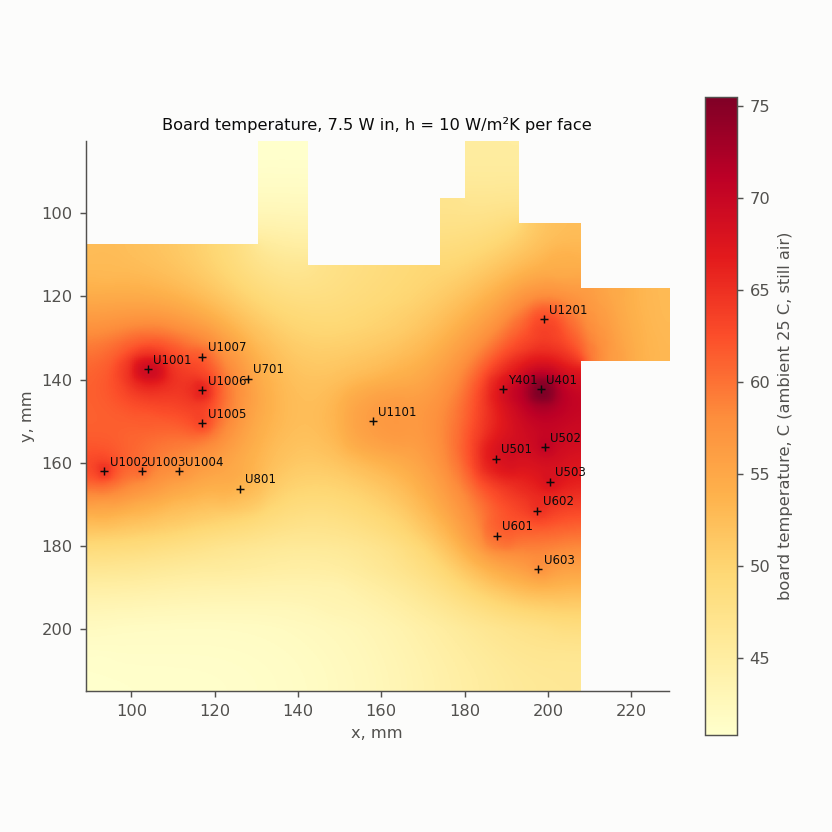
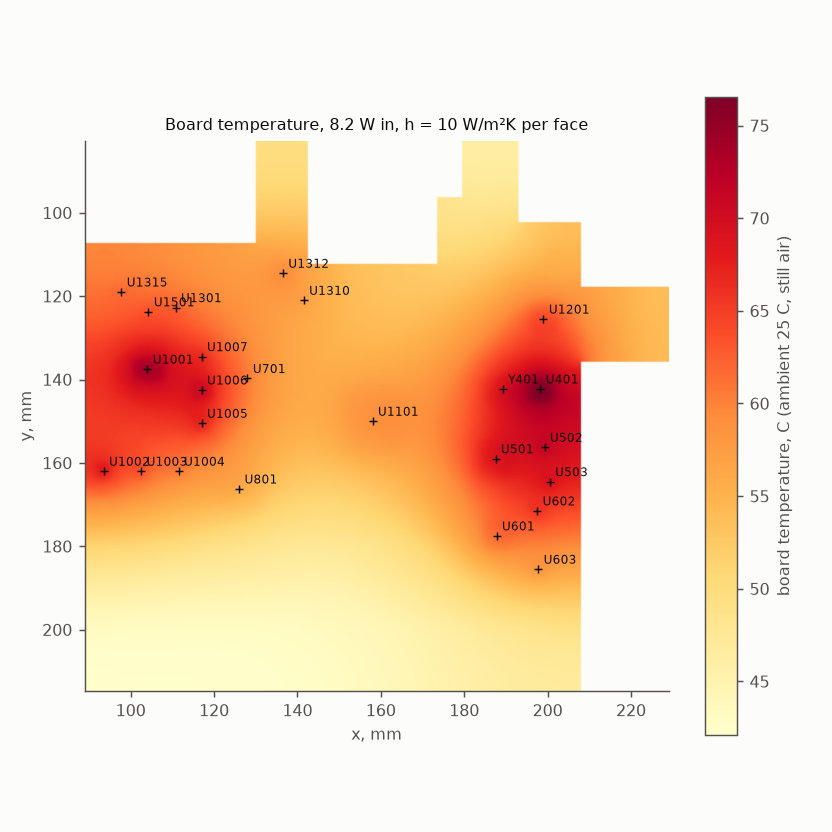
Rev08 phase 9: 2-D board thermal map and the five cooling cases re-run with the Rev08 loads (8.2 W)
The LMR33630 is now the hottest junction in still air (87 C at 25 C ambient), 2 C above the ADCLK948; the
front end (RFFC5072 64 C) sits in the free block away from the clock and power corners. Sink plus fan keeps every
junction under 92 C at 70 C ambient. SIGNAL_INTEGRITY 9.6 and the README caption updated.

diff --git a/docs/SIGNAL_INTEGRITY.md b/docs/SIGNAL_INTEGRITY.md
@@ -751,79 +751,94 @@ no plane to reach. The impedance is inside the target with margin (+1V0: 41 / 63
 
 ### 9.6 Thermal, RF budget, and what is still not simulated
 
-**Thermal (12 Nov; re-run 13 Nov with the Ethernet PHY).**
+**Thermal (12 Nov; re-run 13 Nov with the Ethernet PHY, and 17 Nov for Rev08).**
 - **The model.** `thermal2d.py` treats the board as a 2-D sheet. In-plane conduction runs through
-  each layer's real copper coverage: L2, L5 and L7 85 %, L4 82 %, the outer layers 16–24 %, the
-  signal layers 5–7 %. Both faces cool by natural convection.
-- **The heat.** 7.5 W, from the power budget (POWER_AND_STACKUP §1.3–1.4), spread over each part's
-  pads. 6.9 W until 13 Nov; the Ethernet PHY adds 0.5 W (0.15 A at 3.3 V, always powered) and its
-  load 0.1 W more in the bucks. Its θJB is taken as 12 °C/W, typical of a 6 × 6 mm QFN, not read.
+  each layer's real copper coverage on the Rev08 board: L2, L5 and L7 75 %, L4 70 %, the outer
+  layers 15–23 %, the signal layers 5–7 %. Both faces cool by natural convection.
+- **The heat.** 8.2 W, from the power budget (POWER_AND_STACKUP §1.3–1.4), spread over each part's
+  pads. It was 7.5 W before Rev08 (6.9 W until 13 Nov, when the Ethernet PHY added 0.5 W and its
+  load 0.1 W more in the bucks). Rev08 adds 0.7 W:
+  - the RFFC5072, 0.38 W (125 mA at 3.0 V);
+  - the two SPF5043Z, 0.08 W each;
+  - the LP5907's drop, 0.05 W;
+  - the LEDs and I/O expanders, 0.05 W;
+  - the extra load in the LMR33630, the `+3V3_D` buck and the `+1V8_A` LDO, 0.07 W.
+
+  The PHY's θJB is taken as 12 °C/W, typical of a 6 × 6 mm QFN, not read. The RFFC5072's θJB is also
+  taken as 12 °C/W, the figure the enclosure CFD uses, not read.
 - **The junctions.** Each is the board temperature under the part plus P × θJB, or θJC for the
   exposed-pad parts, from the data sheets read.
 
 | At 25 °C ambient, still air | h = 10 W/m²K per face (convection only) | h = 15 (with radiation) |
 |---|---|---|
-| Board, mean / hottest rise | +27 / +51 °C | +18 / +40 °C |
-| ADCLK948, junction (0.95 W, θJC 8.8 °C/W, Rev. B Table 6) | **84 °C** (board 76) | 73 °C |
-| LMR33630, junction (θJB 13.6) | 82 °C | 72 °C |
-| Si549, junction (θJB 17) | 77 °C | 66 °C |
-| TPS7A8300 for +1V8_D, junction (θJB 12.3) | 72 °C | 62 °C |
-| RTL8211FSI, the Ethernet PHY (0.5 W, θJB 12 assumed) | 70 °C | 59 °C |
-| AD9484, junction (θJC 1.7) | 70 °C | 59 °C |
+| Board, mean / hottest rise | +30 / +52 °C | +20 / +40 °C |
+| LMR33630, junction (0.96 W, θJB 13.6) | **87 °C** (board 74) | 76 °C |
+| ADCLK948, junction (0.95 W, θJC 8.8 °C/W, Rev. B Table 6) | **85 °C** (board 77) | 74 °C |
+| Si549, junction (θJB 17) | 78 °C | 67 °C |
+| TPS7A8300 for +1V8_D, junction (θJB 12.3) | 77 °C | 66 °C |
+| RTL8211FSI, the Ethernet PHY (0.5 W, θJB 12 assumed) | 71 °C | 60 °C |
+| AD9484, junction (θJC 1.7) | 71 °C | 60 °C |
 | AD9253, junction (0.46 W at most, θJC 7.1, Rev. E Table 7) | 66 °C | 56 °C |
-| XC7A50T, junction (0.73 W, θJB 8.4, UG475 Table 5-1 FTG256) | 63 °C | 53 °C |
-| AD9767, junction (LQFP, only θJA 91 is given) | under 84 °C (board 55 + P × θJA, a bound) | under 75 °C |
+| XC7A50T, junction (0.73 W, θJB 8.4, UG475 Table 5-1 FTG256) | 65 °C | 55 °C |
+| RFFC5072, junction (Rev08, 0.38 W, θJB 12 assumed) | 64 °C | 53 °C |
+| AD9767, junction (LQFP, only θJA 91 is given) | under 86 °C (board 58 + P × θJA, a bound) | under 76 °C |
 
 **On the bench this is comfortable. In a vehicle it is not.**
-- **The cause.** The board is small (134 cm²) for 7.5 W. The clock buffer, the radar ADC, the
-  four drivers and the 5 V buck share it.
+- **The cause.** The board is small (138 cm²) for 8.2 W. The 12 V buck, the clock buffer, the
+  radar ADC and the four drivers share it. Since Rev08 the buck is the hottest junction, by 2 °C.
 - **The arithmetic.** At 60–70 °C ambient, add 35–45 °C to every figure above. Around the clock
-  buffer and the ADCs the board then passes 110 °C.
+  buffer, the ADCs and the 12 V buck the board then passes 110 °C.
 - **What it exceeds.**
   - The parts' 85 °C ambient rating: the board under the ADCs and the clock buffer is the
     ambient they see.
-  - The FPGA's 100 °C junction limit (I grade): 63 °C on the bench becomes 98–108 °C.
-  - The ADCLK948 reaches 119–129 °C at the junction. That is under its 150 °C maximum, but
-    outside its rated range.
+  - The FPGA's 100 °C junction limit (I grade): 65 °C on the bench becomes 100–110 °C.
+  - The ADCLK948 reaches 120–130 °C at the junction, and the LMR33630 122–132 °C. That is under
+    their 150 °C maximum, but outside the ADCLK948's rated range.
 - **What a vehicle install needs.** The KV260's fan blowing across this board, or a thermal path
   to the enclosure, as VEHICLE_PLATFORM plans. At 1 m/s the data sheets' θJA fall by 10–15 %, and
   the board's h roughly doubles, which halves every rise.
+- **The front end is not a hot spot.** The RFFC5072 sits in the free block at 59 °C of board in
+  still air, 18 °C below the clock buffer's corner. Its 85 °C ambient rating is reached at 51 °C
+  ambient in still air; with the fan, at 70 °C the board under it is 85 °C.
 - **Not modelled.** Heat flowing into the KV260 through the connector and the standoffs, and any
   airflow.
 
 ![Board temperature](sim/board_thermal.png)
 
-**With cooling (12 Nov).** `thermal2d.py --sink` adds one heatsink, a node of Rsa °C/W to ambient,
-pressed onto each listed part's top through θJC(top) and a gap pad (3 W/m·K, 0.5 mm). Each of
-those parts' heat then splits between the board (through θJB) and the sink, and its junction is
-solved, not estimated.
+**With cooling (12 Nov, re-run 17 Nov for Rev08).** `thermal2d.py --sink` adds one heatsink, a node
+of Rsa °C/W to ambient, pressed onto each listed part's top through θJC(top) and a gap pad (3 W/m·K,
+0.5 mm). Each of those parts' heat then splits between the board (through θJB) and the sink, and its
+junction is solved, not estimated.
 - **Fan only.** h = 25 W/m²K per face, roughly 1–2 m/s across the board.
 - **Passive sink.** One finned plate about the board's size, Rsa = 3 °C/W in still air.
 - **Active sink.** The same plate with a 40 mm fan: Rsa = 0.8 °C/W, and h = 25 on the board.
 - **Contacts.** The FPGA 4.8 °C/W (UG475 θJC 4.24 plus the pad). The ADCLK948 27, and the AD9484
-  and AD9253 18 each (an assumed QFN top θJC of 15–20 plus the pad). The regulators 30–40.
+  and AD9253 18 each (an assumed QFN top θJC of 15–20 plus the pad). The regulators 35–40.
 
 | Hottest junction, at 25 °C ambient (and at 70 °C) | Still air | Fan only | Passive sink, 4 ICs | Passive sink, ICs + regulators | Sink + fan, ICs + regulators |
 |---|---|---|---|---|---|
-| Board, max / mean | 76 / 52 °C | 55 / 36 | 65 / 43 | 51 / 39 | 41 / 31 |
-| Hottest part | ADCLK948 84 (129) | ADCLK948 63 (108) | LMR33630 78 (123) | Si549 56 (101) | Si549 46 (91) |
-| ADCLK948 | 84 (129) | 63 (108) | 52 (97) | 53 (98) | 44 (89) |
-| XC7A50T | 63 (108) | 46 (91) | 37 (82) | 39 (84) | 31 (76) |
-| AD9484 / AD9253 | 70 / 66 | 50 / 47 | 44 / 41 | 46 / 43 | 36 / 34 |
-| LMR33630 | 82 (127) | 63 (108) | 78 (123) | 54 (99) | 45 (90) |
-| RTL8211FSI (not under the sink) | 70 (115) | 50 (95) | 54 (99) | 55 (100) | 45 (90) |
+| Board, max / mean | 77 / 55 °C | 55 / 37 | 69 / 45 | 51 / 41 | 41 / 32 |
+| Hottest part | LMR33630 87 (132) | LMR33630 66 (111) | LMR33630 82 (127) | Si549 and LMR33630 56 (101) | LMR33630 46 (91) |
+| ADCLK948 | 85 (130) | 64 (109) | 52 (97) | 54 (99) | 44 (89) |
+| XC7A50T | 65 (110) | 46 (91) | 38 (83) | 40 (85) | 31 (76) |
+| AD9484 / AD9253 | 71 / 66 | 50 / 47 | 45 / 42 | 46 / 43 | 37 / 34 |
+| LMR33630 | 87 (132) | 66 (111) | 82 (127) | 56 (101) | 46 (91) |
+| RTL8211FSI (not under the sink) | 71 (116) | 51 (96) | 55 (100) | 56 (101) | 45 (90) |
+| RFFC5072 (Rev08, not under the sink) | 64 (109) | 44 (89) | 57 (102) | 52 (97) | 41 (86) |
 
 ![Board temperature for five ways of cooling it](sim/board_cooling.png)
 
 - **Airflow alone halves every rise.** At 70 °C it brings the FPGA to 91 °C, inside its limit.
   The board under the clock buffer still reaches about 100 °C.
-- **A sink on the four ICs alone leaves the power corner hot.** The buck then becomes the hottest
+- **A sink on the four ICs alone leaves the power corner hot.** The 12 V buck stays the hottest
   part. The sink has to touch the regulators too: the LMR33630, and the two TPS7A8300 and
   TPS562201 that dissipate most.
-- **Sink plus fan keeps every junction under 92 °C at 70 °C ambient.** It takes 3.4 of the 7.5 W.
+- **Sink plus fan keeps every junction under 92 °C at 70 °C ambient.** It takes 3.5 of the 8.2 W.
   The board's hottest spot is then 86 °C, at the parts' 85 °C rating, no longer under it with
-  margin (85 °C before the PHY). The PHY on its tab is outside the sink here; touching it too, or a
-  pad to the RJ45 pedestal of the mount (MECHANICAL), would win that back.
+  margin. The PHY and the front end are outside the sink here. Touching the PHY too, or a pad to
+  the RJ45 pedestal of the mount (MECHANICAL), would win that back.
+- **Rev08 changed little.** Against the Rev07 board each figure moved by 0–5 °C: the front end's
+  0.7 W is spread through the free block, away from the clock and power corners.
 - **Not modelled.** The contacts' tops are estimates; the ADI data sheets give no θJC(top). The
   sink is taken as isothermal. Heat into the KV260 is not counted, which errs on the hot side.
 

diff --git a/README.md b/README.md
@@ -337,7 +337,7 @@ All electromagnetic, transient SPICE, thermal, and power integrity checks are ru
 
 ![Clock ferrite filter FB401](docs/sim/fb401_filter.png)
 
-![2-D PCB thermal map (7.5 W in still air)](docs/sim/board_thermal.png)
+![2-D PCB thermal map (8.2 W in still air)](docs/sim/board_thermal.png)
 
 ![Five cooling configurations compared](docs/sim/board_cooling.png)
 
